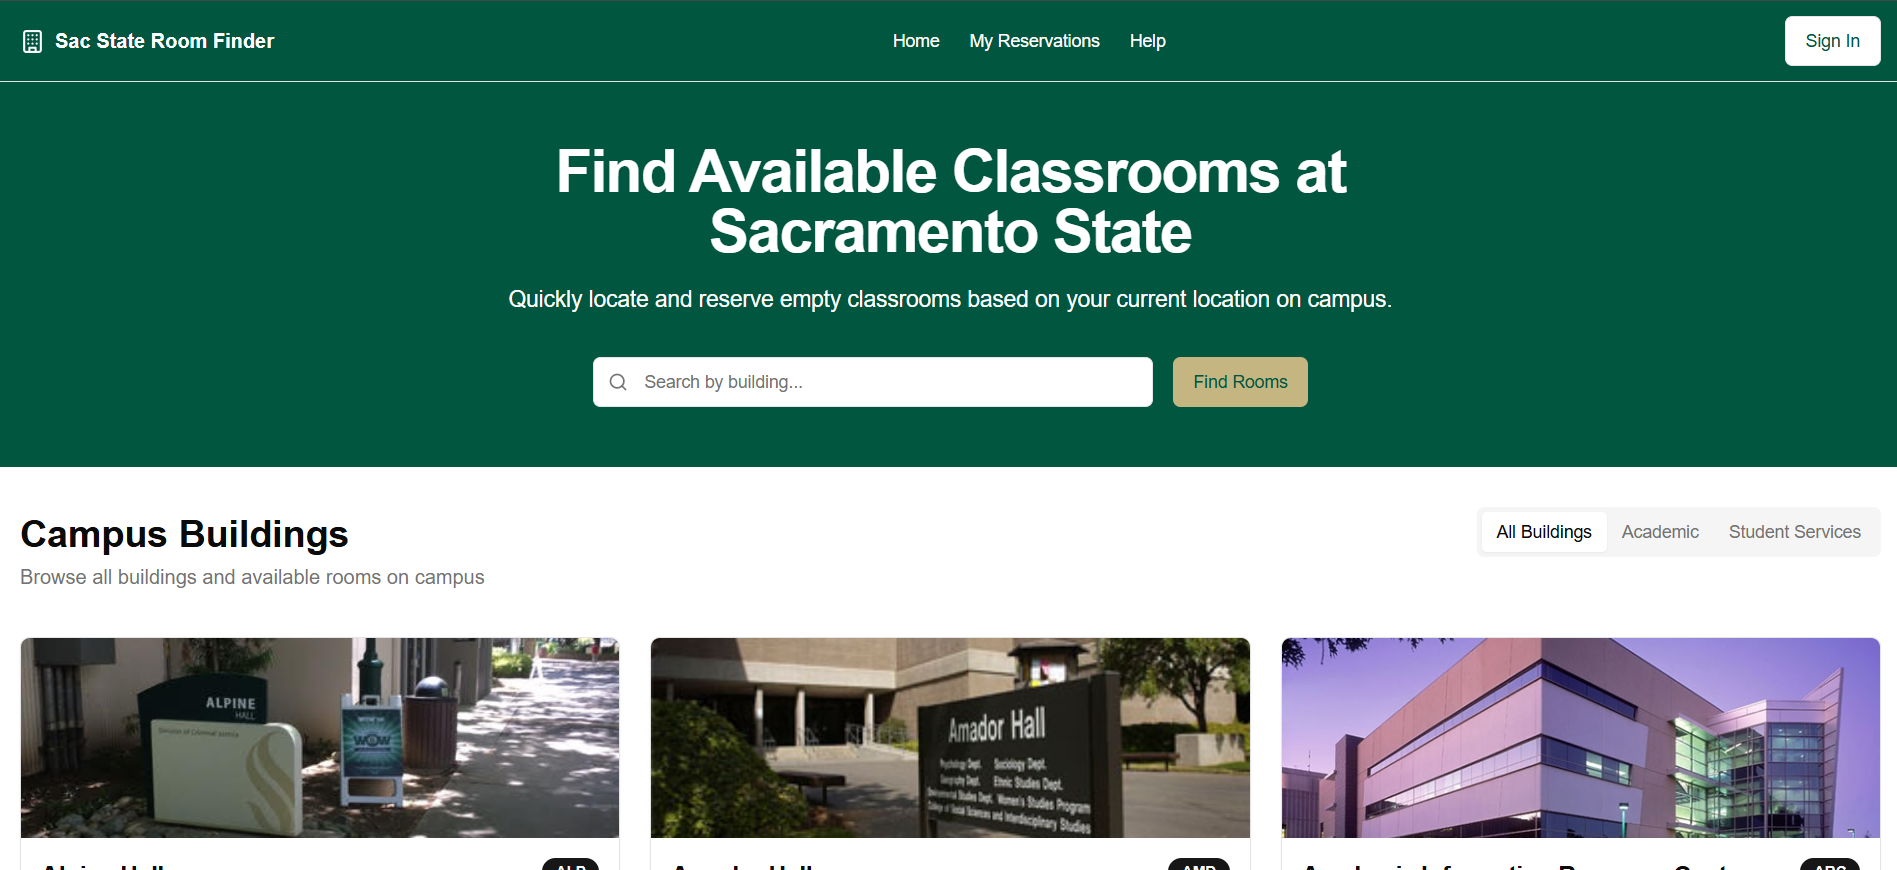
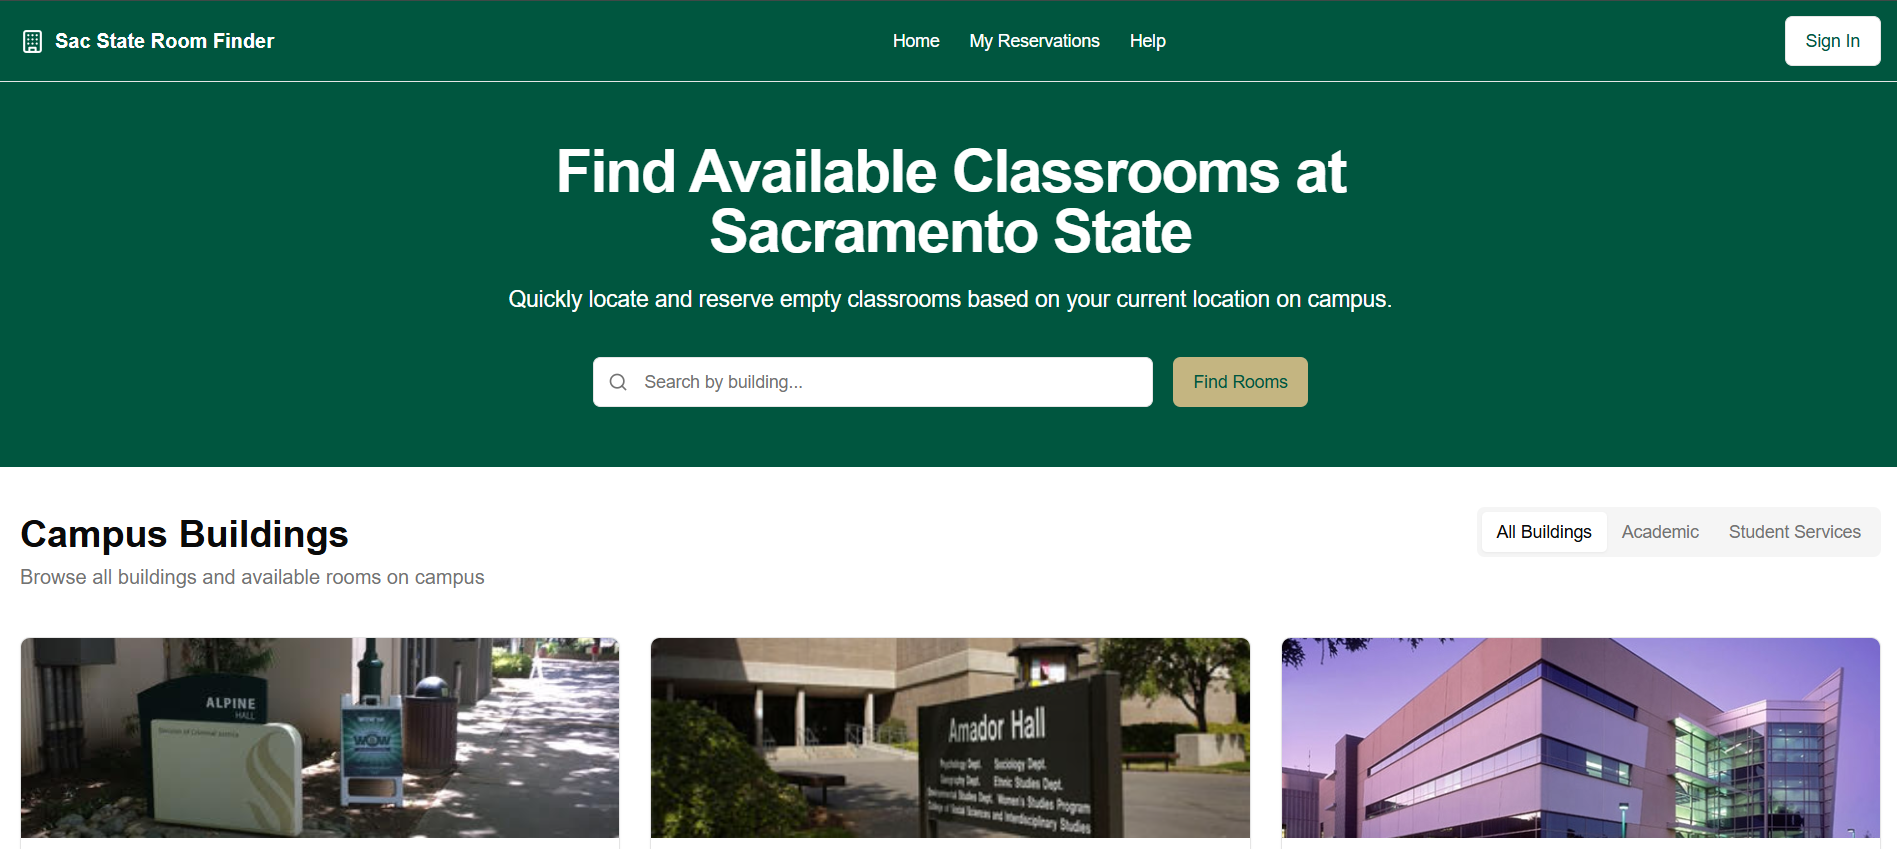
Added Roomfinder project to page, dynamic image link clicking

diff --git a/index.html b/index.html
@@ -29,11 +29,11 @@
                 SKILLS
                 <ul>
                     <li>
-                        Relevant Coursework:    Data Structures & Algorithms,  Operating Systems,  Database Management,  Software      _                                            	
-                        Engineering,  Discrete Mathematics, Machine Learning, Networking
+                        Relevant Coursework: Data Structures & Algorithms,  Operating Systems,  Database Management,  
+                        Software Engineering,  Discrete Mathematics, Machine Learning, Networking
                     </li>
                     <li>
-                        Languages & Tools:         C++,  Java,  Python,  SQL,  HTML/CSS, Git, MySQL, Excel, Git
+                        Languages & Tools: C++,  Java,  Python,  SQL,  HTML/CSS, Git, MySQL, Excel, Git
                     </li>
                 </ul>
             </p>
@@ -41,35 +41,38 @@
                 AWARDS & LEADERSHIP
                 <ul>
                     <li>
-                    Dean’s Honor List for Fall 2025
+                        Dean’s Honor List for Fall 2025
                     </li>
                     <li>
-                    Data Science Club Treasurer (Spring 2025) - Coordinated and purchased shirts for Datafest 2025
+                        Data Science Club Treasurer (Spring 2025) - Coordinated and purchased shirts for Datafest 2025
                     </li>
                     <li>
-                    Relevant Academic Achievement: Earned best visualization at DataFest 2025 with my team
+                        Relevant Academic Achievement: Earned best visualization at DataFest 2025 with my team
                     </li>
                </ul>
             </p>
                 
-            <div class="left">
+            
+            <div class="highlight">
                     <h2>FEATURED PROJECT: ROOM FINDER</h2>
-                 (Python, Pandas, Data Cleaning)
+                        (Python, Pandas, Data Cleaning)
+            
+            </p></div>
+            <div class="hl_image">
+                <a href="https://please-give-us-an-a.vercel.app/" target="_blank">
+                    <img src="images/roomfinder.png" alt="Description of image">
+                </a>
+            </div>
+            <div class="hl_content">
             <p>
             <ul>
                 <li>
-                Developed a campus resource finder by processing a large CSV of scraped website data to determine real-time classroom availability.
+                    Developed a campus resource finder by processing a large CSV of scraped website data to determine real-time classroom availability.
                 </li>
                 <li>
-                Utilized the Pandas library in Python to clean, structure, and transform a dataset of scheduling records, creating a normalized CSV output for group members to integrate into the application back-end.
+                    Utilized the Pandas library in Python to clean, structure, and transform a dataset of scheduling records, creating a normalized CSV output for group members to integrate into the application back-end.
                 </li>
             </ul>
-            </p></div>
-            <div class="center">
-                <img src="images\roomfinder.png">
-            </div>
-            <div class="right">
-                <!-- Ghost Column -->
             </div>
         </div>
         <div class="right">

diff --git a/style.css b/style.css
@@ -68,6 +68,28 @@ ul {
     list-style-type: square;
 }
 
+.content .highlight {
+    margin-top: 50px;
+}
+
+.hl_image {
+    
+    overflow: hidden;
+    border-radius: 10px;
+}
+
+.hl_image img {
+    width: 100%;
+    display: block;
+    transition: transform 0.3s ease, filter 0.3s ease;
+}
+
+/* Image Animation Trigger */
+.hl_image:hover img {
+    transform: scale(1.1);
+    filter: brightness(80%);
+}
+
 /* ghost column for formatting */
 .right {
     flex: 1;
